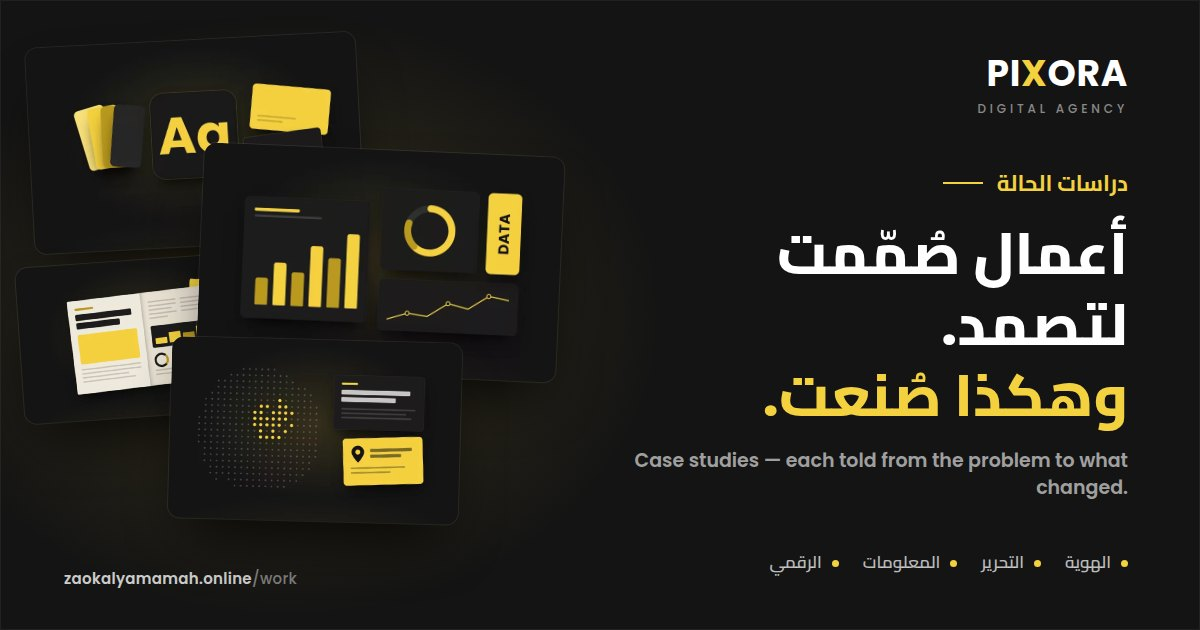
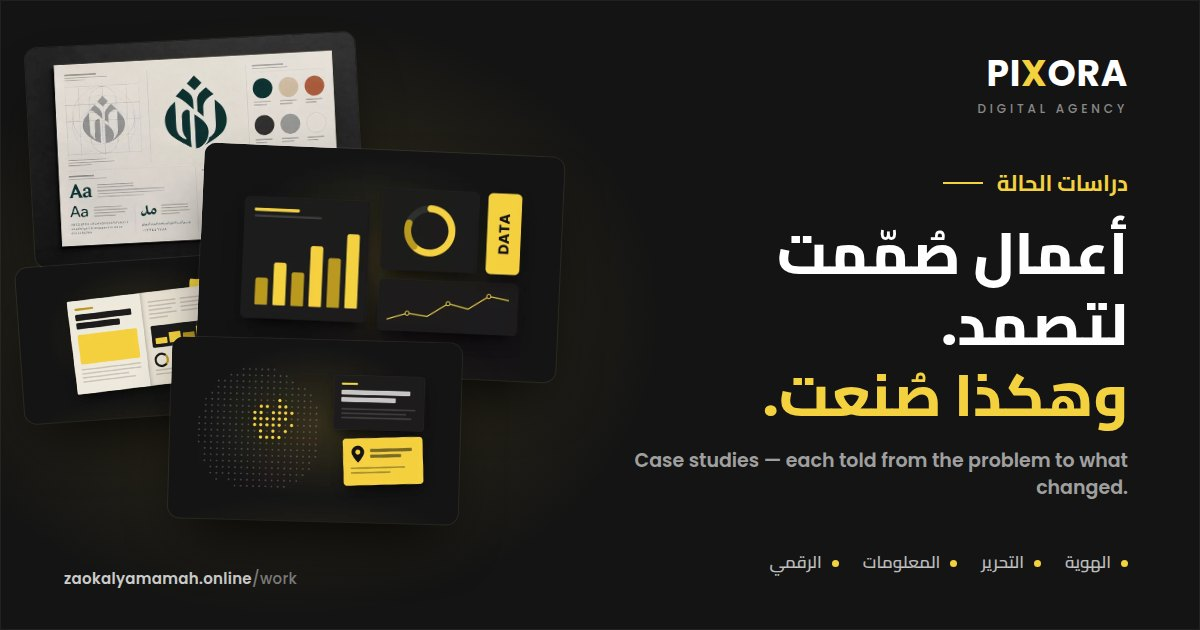
A study's real work becomes its card and its link preview
- cases.py: a study's cover is its first piece of work once that is real
  (brand identity: the identity sheet), else its drawn cover; the drawn
  brand cover leaves the assets and images.py cases skips it.
- Link previews use the same image, with more shade over a light
  photograph so the text stays legible; the /work card shows it too.

Claude-Session: https://claude.ai/code/session_01NJL9QvcoEBBfKSiRxG5s9B

Changed region(s): [[0.0308, 0.0302, 0.3083, 0.3921]]

diff --git a/tools/share-cards/base.css b/tools/share-cards/base.css
@@ -36,3 +36,5 @@ h1 .acc,h1 .c-detail__accent{color:#f4d13f}
 .cover{position:absolute;inset:0}
 .cover img{width:100%;height:100%;object-fit:cover;object-position:var(--focus,center)}
 .shade{position:absolute;inset:0;background:linear-gradient(to left,rgba(14,14,14,.97) 0%,rgba(14,14,14,.9) 40%,rgba(14,14,14,.35) 68%,rgba(14,14,14,.12) 100%),linear-gradient(to top,rgba(14,14,14,.7),transparent 34%)}
+/* A light photograph (real work on paper): more shade, so the text and the address stay legible. */
+.is-light .shade{background:linear-gradient(to left,rgba(14,14,14,.97) 0%,rgba(14,14,14,.92) 42%,rgba(14,14,14,.6) 70%,rgba(14,14,14,.42) 100%),linear-gradient(to top,rgba(14,14,14,.94),transparent 38%)}

diff --git a/tools/share-cards/work.html b/tools/share-cards/work.html
@@ -6,7 +6,7 @@
 .p4{--x:170px;--y:340px;--w:290px;--r:1.5deg;--z:4}
 </style></head><body><div class="glow"></div>
 <div class="prints">
- <div class="print p1"><img src="../../overlay/assets/case-brand-identity-systems-800.webp"></div>
+ <div class="print p1"><img src="../../overlay/assets/case-brand-identity-systems-identity-800.webp"></div>
  <div class="print p2"><img src="../../overlay/assets/case-information-design-800.webp"></div>
  <div class="print p3"><img src="../../overlay/assets/case-editorial-publication-design-800.webp"></div>
  <div class="print p4"><img src="../../overlay/assets/case-talk-about-sudan-800.webp"></div>

diff --git a/tools/images.py b/tools/images.py
@@ -21,7 +21,9 @@ build itself never encodes anything (the results are committed).
           pixora-board-900.webp (the campaign page's hero).
 
   cases   tools/share-cards/out/case-<slug>.png (rendered by render.mjs,
-          1600×1000) → case-<slug>.webp and case-<slug>-800.webp.
+          1600×1000) → case-<slug>.webp and case-<slug>-800.webp — only
+          for studies whose first piece of work is still a placeholder (once
+          it is real, it is the study's cover).
 
   work    <folder>/<slug>-<piece>.png|.jpg|.webp, named after a study and one of
           its pieces in tools/case_stories.py (e.g. talk-about-sudan-map.png)
@@ -71,7 +73,12 @@ def board():
 
 
 def cases():
+    sys.path.insert(0, str(ROOT / "tools"))
+    from cases import cover_name
     for src in sorted((ROOT / "tools" / "share-cards" / "out").glob("case-*.png")):
+        if cover_name(src.stem[len("case-"):]) != src.stem:
+            print(f"skipped {src.name}: the study's cover is its real work now")
+            continue
         webp(src, f"{src.stem}.webp", "scale=1600:1000:flags=lanczos", 82)
         webp(src, f"{src.stem}-800.webp", "scale=800:500:flags=lanczos", 82)
         print(f"overlay/assets/{src.stem}.webp (+ -800)")

diff --git a/tools/cases.py b/tools/cases.py
@@ -105,9 +105,19 @@ def plain(html):
     return re.sub(r"<[^>]+>", "", html).replace("&amp;", "&")
 
 
+ASSETS = pathlib.Path(__file__).resolve().parent.parent / "overlay" / "assets"
+
+
+def cover_name(slug):
+    """A study's cover: its first piece of work once that is real, else its drawn cover."""
+    first = f"case-{slug}-{STORIES[slug]['hero'][0]}"
+    return first if (ASSETS / f"{first}.webp").exists() else f"case-{slug}"
+
+
 def cover(slug, lazy=True, sizes="(min-width: 64em) 40rem, 100vw"):
     load = 'loading="lazy"' if lazy else 'fetchpriority="high"'
-    return (f'<img src="/assets/case-{slug}.webp" srcset="/assets/case-{slug}-800.webp 800w, /assets/case-{slug}.webp 1600w" '
+    name = cover_name(slug)
+    return (f'<img src="/assets/{name}.webp" srcset="/assets/{name}-800.webp 800w, /assets/{name}.webp 1600w" '
             f'sizes="{sizes}" alt="" width="1600" height="1000" {load} decoding="async" />')
 
 

diff --git a/README.md b/README.md
@@ -182,7 +182,9 @@ image `<slug>-<piece>` (for example `talk-about-sudan-map.png`,
     python3 tools/images.py work <folder> && npm run build
 
 The images are cropped to the piece's proportions (1600 and 800 wide) and
-replace the placeholder in the hero and in the chapter at once.
+replace the placeholder in the hero and in the chapter at once. Once a study's
+first piece is real, it also becomes the study's card on `/work` and, after
+`node tools/share-cards/render.mjs`, its link preview.
 
 The hub cards' covers are HTML scenes in the site's colours
 (`tools/share-cards/case-cover.html?s=<slug>`), rendered and encoded with
